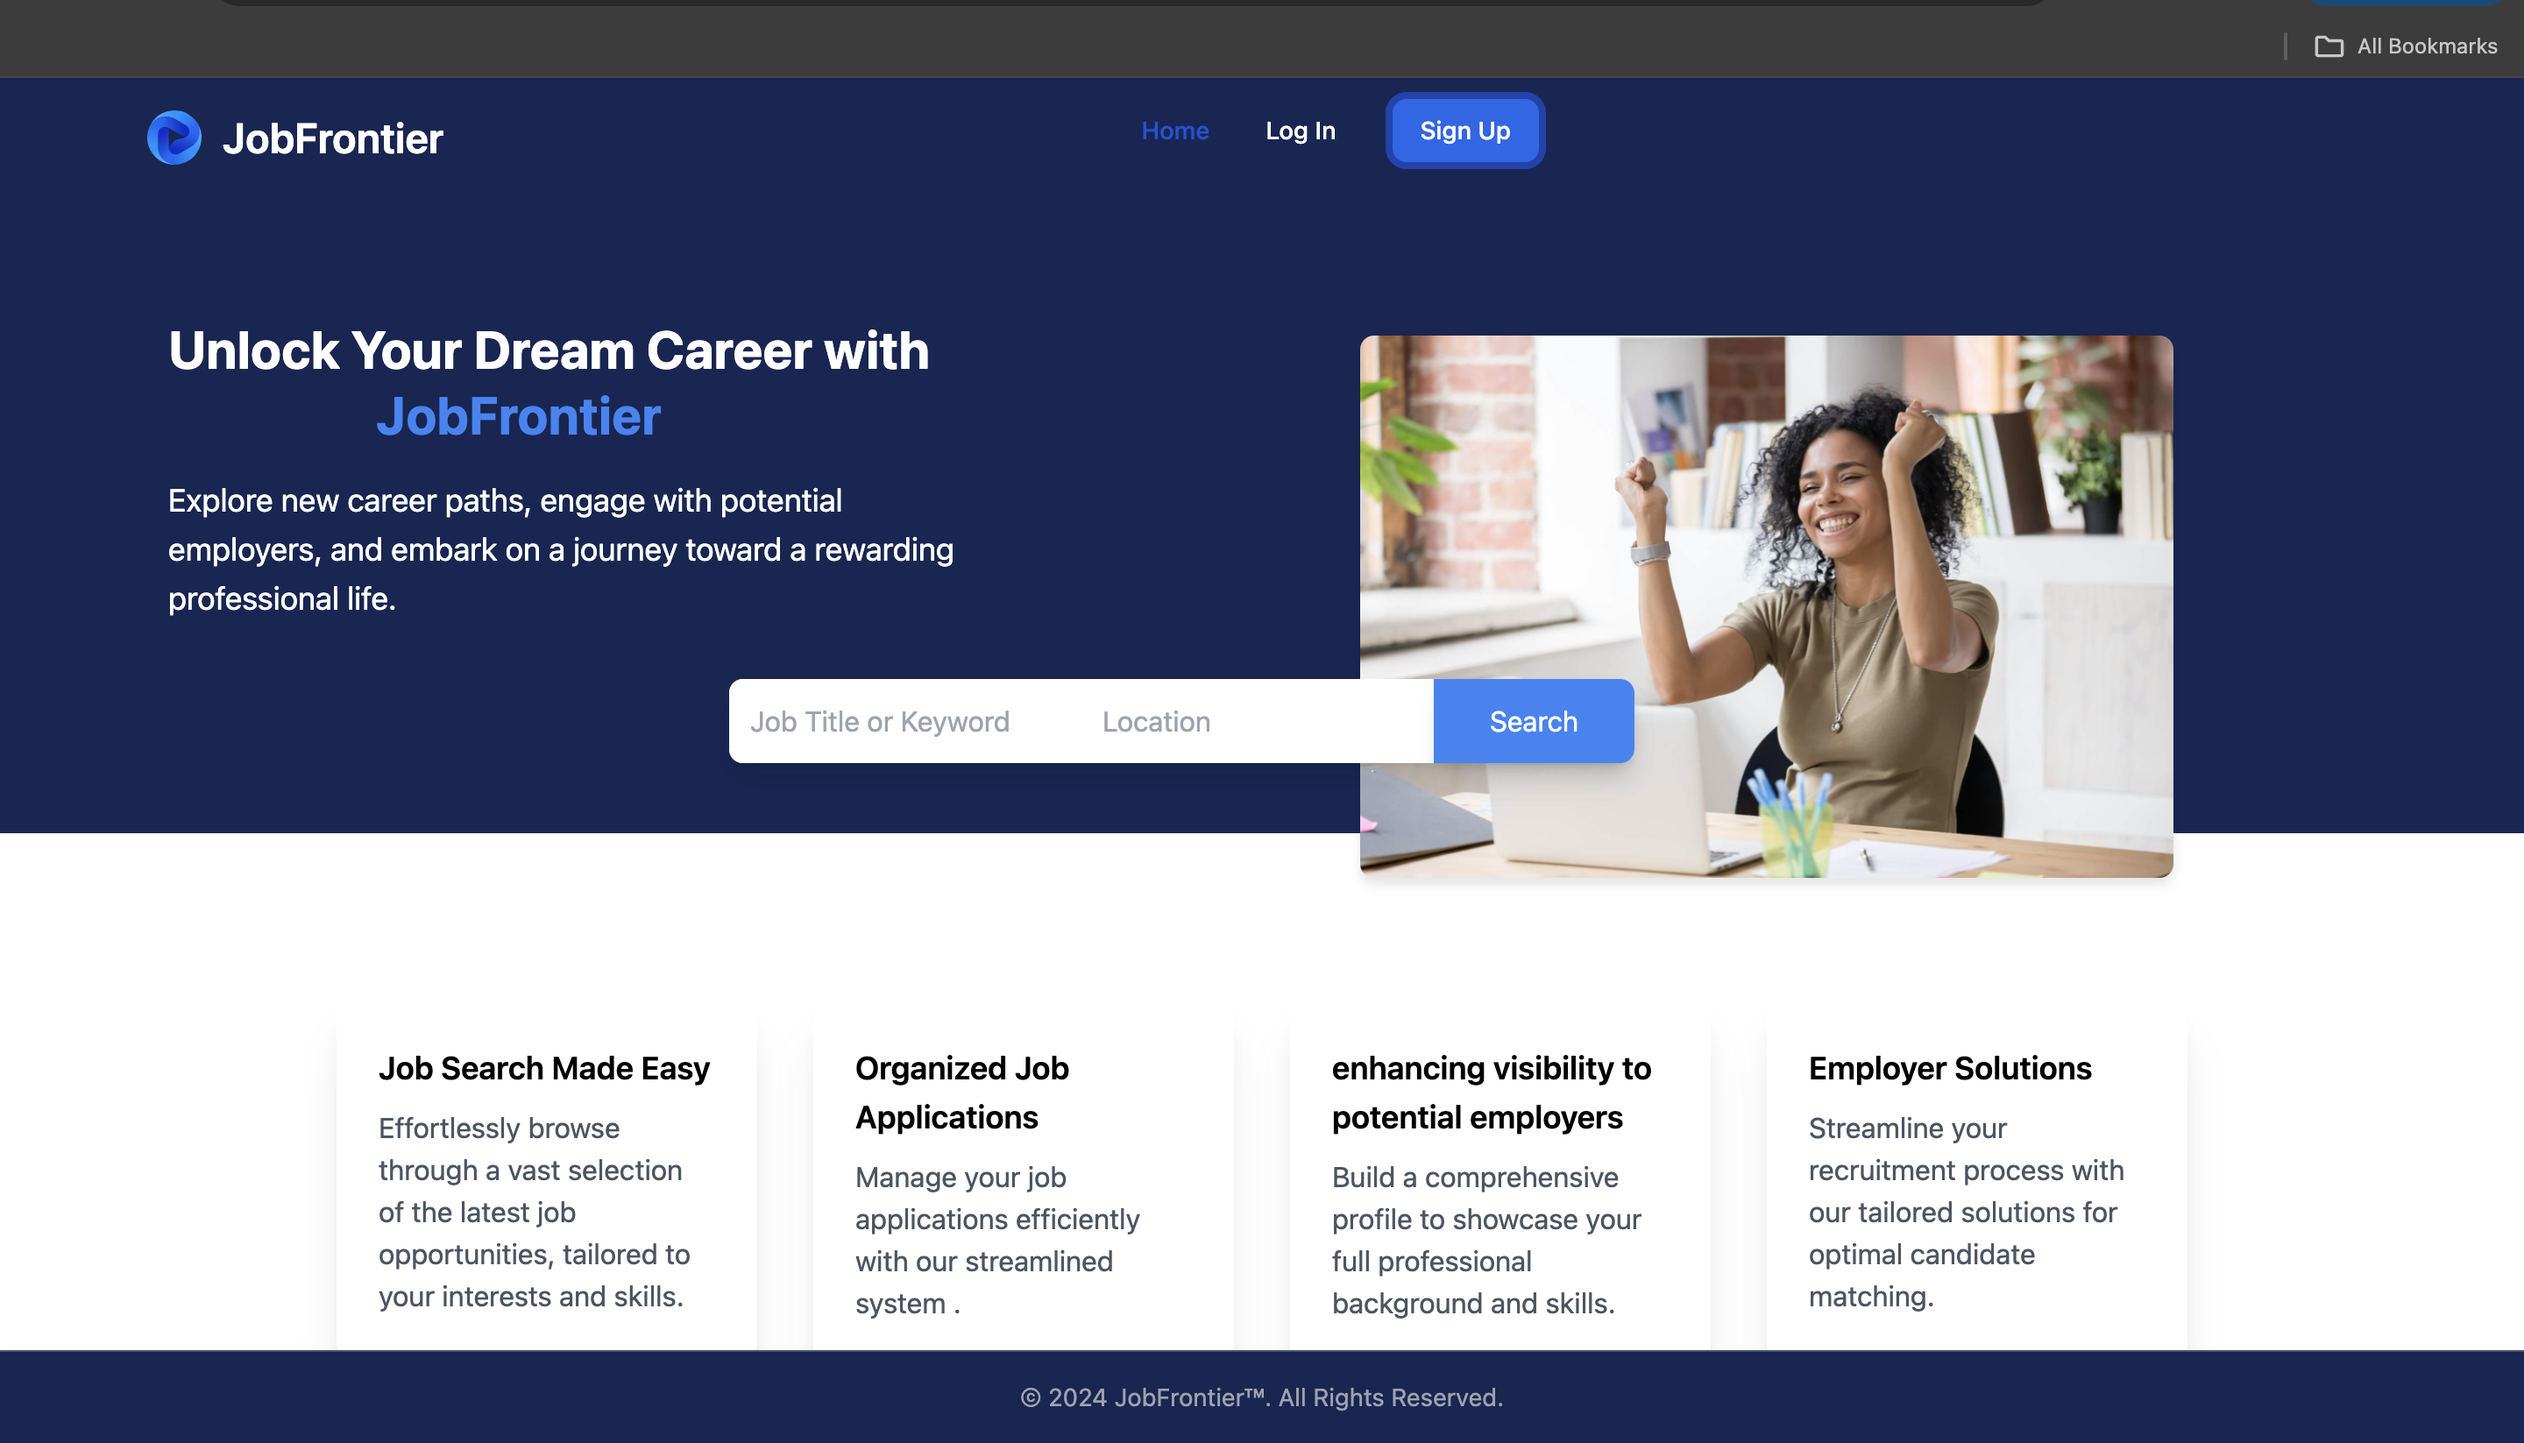
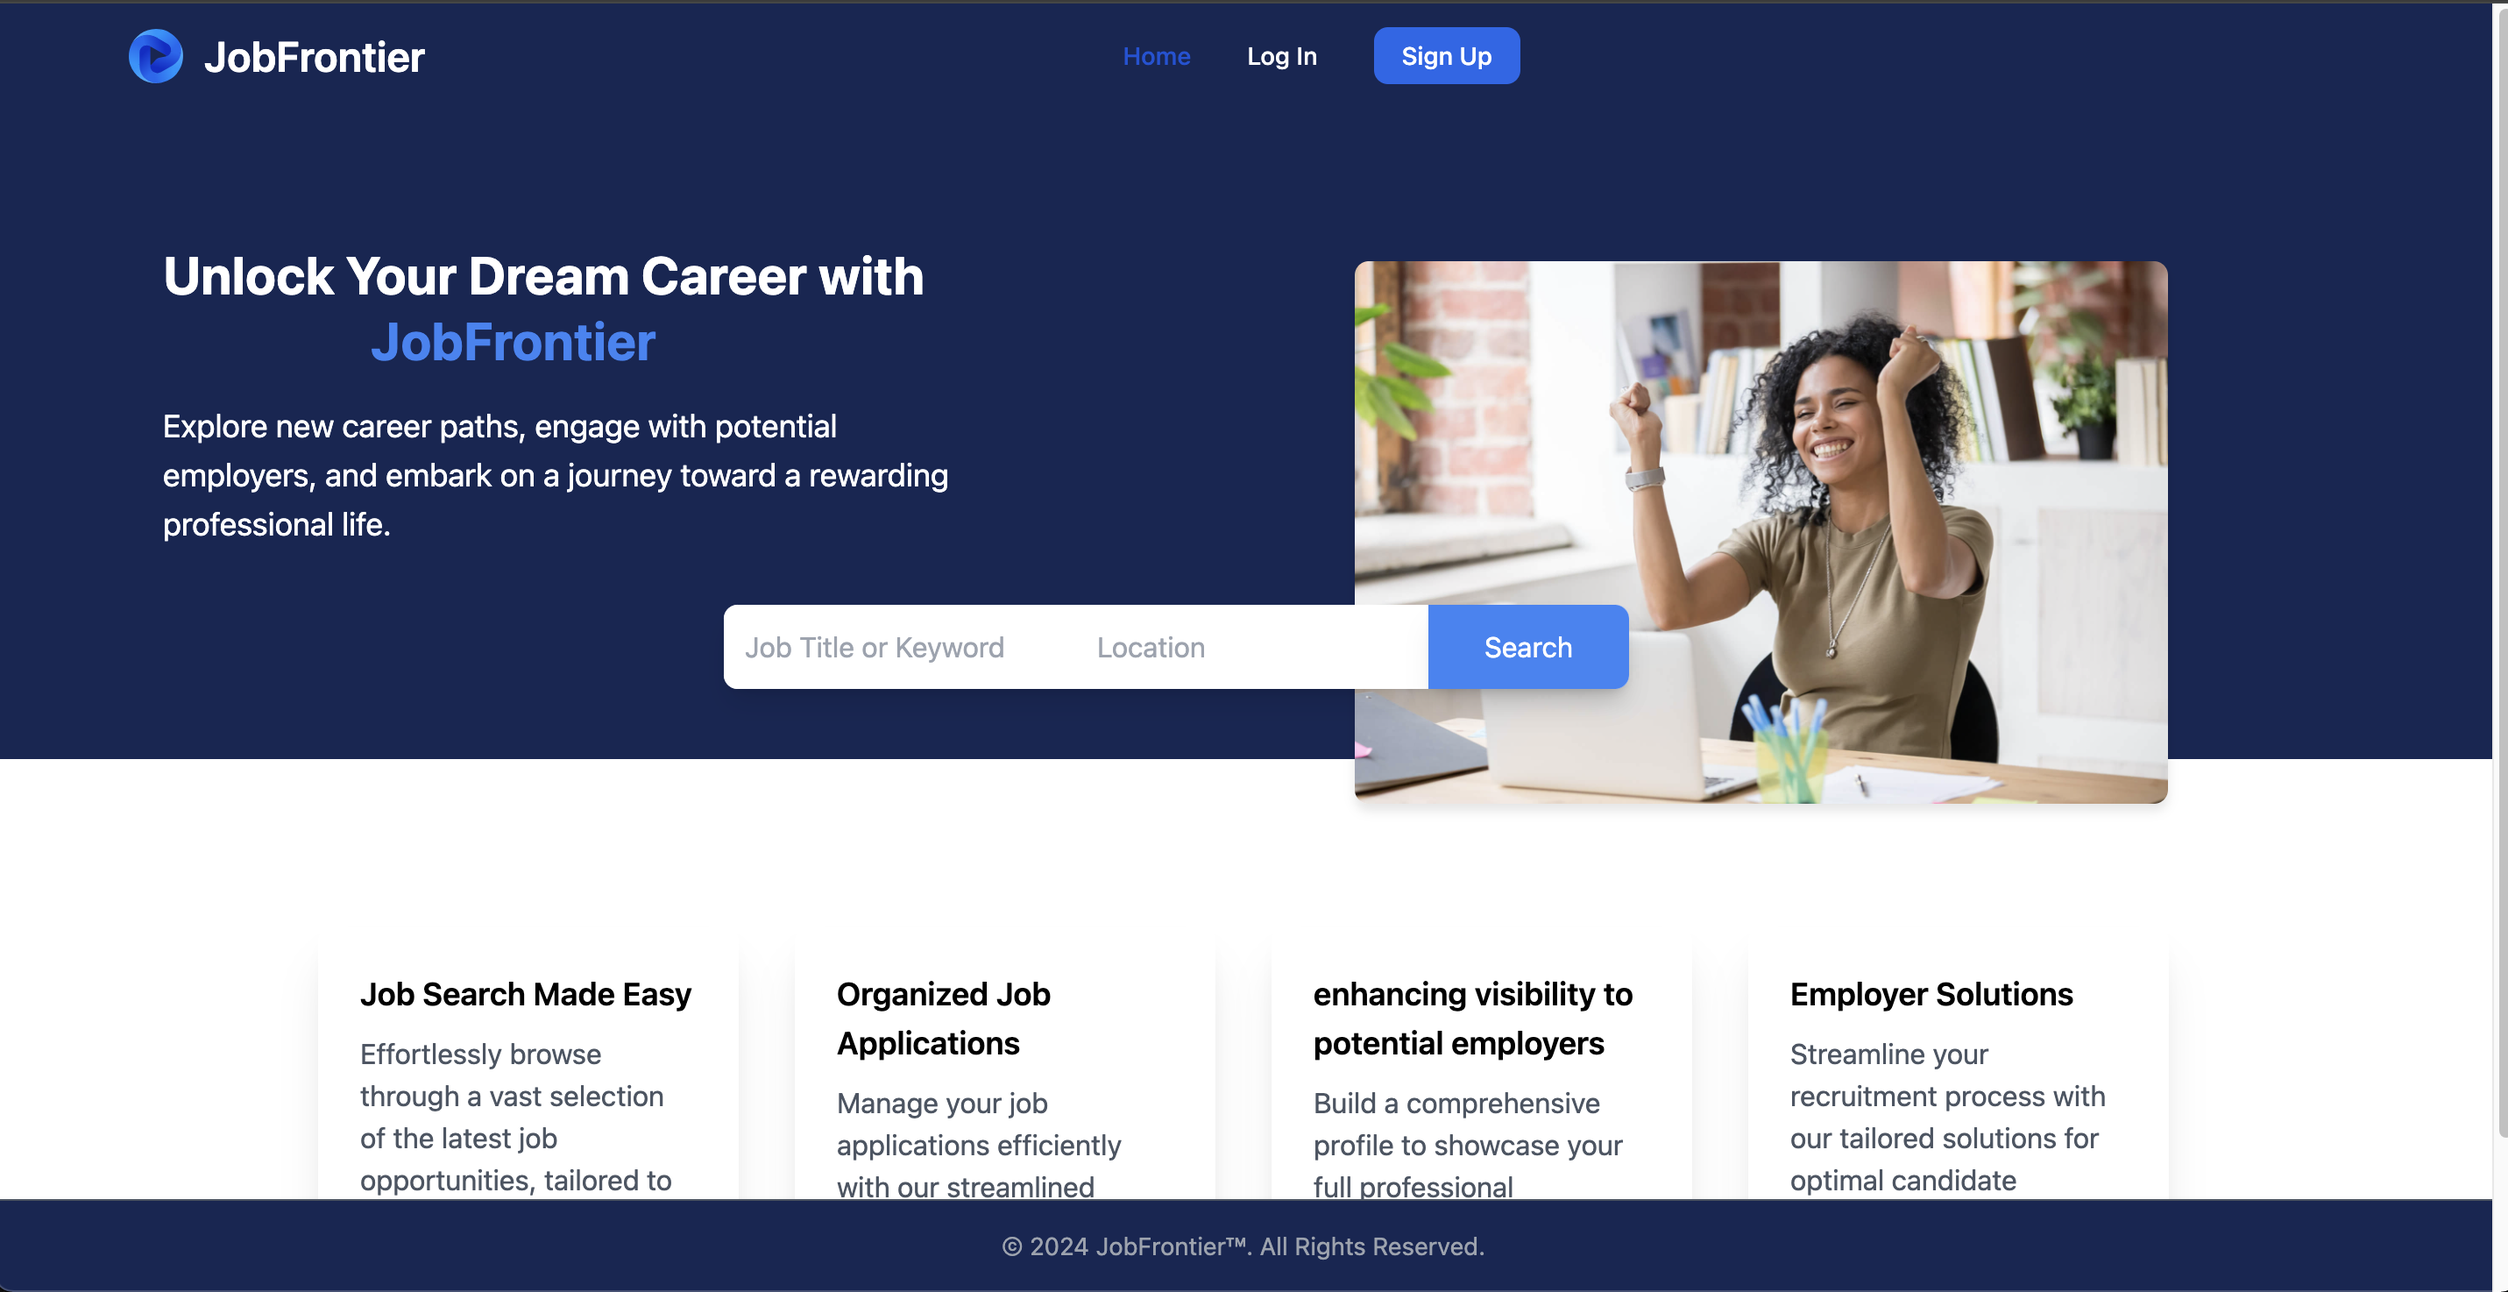
projects, skills, footer updated

diff --git a/components/Footer.tsx b/components/Footer.tsx
@@ -1,0 +1,65 @@
+
+
+import { EnvelopeIcon, LinkIcon } from '@heroicons/react/16/solid';
+import { CodeBracketIcon } from '@heroicons/react/24/solid';
+import React from 'react'
+
+const Footer = () => {
+  return (
+    <div className='pt-[8rem] pb-[4rem] bg-[#02050a]'>
+        <div className='grid border-b-[1px] pb-[6rm] border-gray-400 grid-cols-1 md:grid-cols-2 lg:grid-cols-3 mx-auto gap-[3rem]'>
+            <div className='flex items-center justify-center space-x-6 py-[2rem] ml-[4rem]'>
+                <div className='md:w-[6.5rem] md:h-[6.5rem] w-[5rem] h-[5rem] flex items-center justify-center rounded-full bg-[#55e6a5]'>
+                    <EnvelopeIcon className='md:w-[4rem] md:h-[4rem] w-[3.5rem] h-[3.5rem] text-black' />
+                </div>
+                <div>
+                    <h1 className='text-[25px] mb-[0.2rem] font-bold text-white'>
+                        Email
+                    </h1>
+                    <p className='text-[17px] w-[90%] text-white opacity-60'>
+                        ma.mojtabavi@gmail.com
+                    </p>
+                </div>
+            </div>
+            <div className='flex items-center space-x-6 py-[2rem]'>
+                <div className='md:w-[6.5rem] md:h-[6.5rem] w-[5rem] h-[5rem] flex items-center justify-center rounded-full bg-[#55e6a5]'>
+                    <LinkIcon className='md:w-[4rem] md:h-[4rem] w-[3.5rem] h-[3.5rem] text-black' />
+                </div>
+                <div>
+                    <h1 className='text-[25px] mb-[0.2rem] font-bold text-white'>
+                        Linked in
+                    </h1>
+                    <p className='text-[17px] w-[90%] text-white opacity-60'>
+                        www.linkedin.com/in/mahshidmnaeini
+                    </p>
+                </div>
+            </div>
+            <div className='flex items-center space-x-6 py-[2rem]'>
+                <div className='md:w-[6.5rem] md:h-[6.5rem] w-[5rem] h-[5rem] flex items-center justify-center rounded-full bg-[#55e6a5]'>
+                    <CodeBracketIcon className='md:w-[4rem] md:h-[4rem] w-[3.5rem] h-[3.5rem] text-black' />
+                </div>
+                <div>
+                    <h1 className='text-[25px] mb-[0.2rem] font-bold text-white'>
+                        Github
+                    </h1>
+                    <p className='text-[17px] w-[90%] text-white opacity-60'>
+                        www.github.com/Mahshidmn
+                    </p>
+                </div>
+            </div>
+        </div>
+        <div className='w-[80%] mt-[1rem] mb-[-3rem] mx-auto grid grid-cols-1 md:grid-cols-2 items-center justify-between whitespace-nowrap '>
+                <div className='text-[16px] mb-[2rem] md:mb-0 text-white opacity-50'>
+                    MNWEB 2024 | all Rights Reserved
+                </div>
+                <div className='flex items-center space-x-10 text-white pl-[10rem]'>
+                    <p className='text-[16px] text-white opacity-50'>Terms & Condition</p>
+                    <p className='text-[16px] text-white opacity-50'>Privacy Policy</p>
+                    <p className='text-[16px] text-white opacity-50'>Sitemap</p>
+                </div>
+            </div>
+    </div>
+  );
+};
+
+export default Footer;

diff --git a/components/Projects.tsx b/components/Projects.tsx
@@ -1,0 +1,48 @@
+import React from 'react'
+import Image from 'next/image'
+
+const Projects = () => {
+  return (
+    <div className='bg-[#02050a] pt-[4rem] md:pt-[8rem] pb-[5rem] flex flex-col text-center'>
+        <div>
+            <h1 className='font-bold text-white text-[50px] mb-[4rem] mx-auto'>
+                Pro<span className='text-yellow-400'>Jects</span>
+            </h1>
+            <div className='w-[80%] h-[100%] pt-[2rem] mx-auto grid grid-cols-1 md:grid-cols-2 lg:grid-cols-3 gap-[2rem]'>
+                <div data-aos="fade-up">
+                    <div className='transform cursor-pointer hover:-translate-y-6 transition-all duration-300 relative w-[100%] h-[200px] md:h-[300px]'>
+                        <Image
+                            src="/images/p2.png"
+                            alt="project1"
+                            layout="fill"
+                            
+                        />
+                    </div>
+                </div>
+                <div data-aos="fade-up" data-aos-delay="300">
+                    <div className='transform cursor-pointer hover:-translate-y-6 transition-all duration-300 relative w-[100%] h-[200px] md:h-[300px]'>
+                        <Image
+                            src="/images/p3.png"
+                            alt="project1"
+                            layout="fill"
+                            
+                        />
+                    </div>
+                </div>
+                <div data-aos="fade-up" data-aos-delay="600">
+                    <div className='transform cursor-pointer hover:-translate-y-6 transition-all duration-300 relative w-[100%] h-[200px] md:h-[300px]'>
+                        <Image
+                            src="/images/p4.png"
+                            alt="project1"
+                            layout="fill"
+                            
+                        />
+                    </div>
+                </div>
+            </div>
+        </div>
+    </div>
+  );
+};
+
+export default Projects;

diff --git a/components/Skills.tsx b/components/Skills.tsx
@@ -1,9 +1,53 @@
 import React from 'react'
+import SkillsItem from './SkillsItem';
+import SkillsLanguages from './SkillsLanguages';
 
 const Skills = () => {
   return (
-    <div>
-      
+    <div className='pt-[4rem] md:pt-[8rem] pb-[5rem] bg-[#02050a] flex flex-col text-center'>
+        <div>
+            <h1 className='font-bold text-white text-[50px] mb-[2rem] mx-auto'>
+                Education & <span className='text-yellow-400'>Skills</span>
+            </h1>
+        </div>
+        <div className='w-[80%] mx-auto pt-[4rem] md:pt-[8rem] grid grid-cols-1 md:grid-cols-2 lg:grid-cols-3 gap-[2rem] items-center'>
+            <div>
+                <SkillsItem title="React Developer" year="2023- 2024"/>
+                <SkillsItem title="MERN STACK Developer" year="2023- 2024"/>
+                <SkillsLanguages 
+                    skill1="HTML"
+                    skill2="CSS"
+                    skill3="JavaScript"
+                    level1="[91%]"
+                    level2="[88%]"
+                    level3="[80%]"
+                />
+            </div>
+            <div>
+                <SkillsItem title="Next Js Developer" year="2023- 2024"/>
+                <SkillsItem title="Node Js Developer" year="2023- 2024"/>
+                <SkillsLanguages 
+                    skill1="React Js"
+                    skill2="Next Js"
+                    skill3="TypeScript"
+                    level1="[81%]"
+                    level2="[78%]"
+                    level3="[60%]"
+                    />
+            </div>
+            <div>
+                <SkillsItem title="Python Developer" year="2023- 2024"/>
+                <SkillsItem title="Django Developer" year="2023- 2024"/>
+                <SkillsLanguages 
+                    skill1="Python"
+                    skill2="Django"
+                    skill3="JavaScript"
+                    level1="[81%]"
+                    level2="[78%]"
+                    level3="[60%]"
+                />
+            </div>
+        </div>
     </div>
   )
 }

diff --git a/components/SkillsLanguages.tsx b/components/SkillsLanguages.tsx
@@ -1,11 +1,48 @@
-import React from 'react'
+import React from 'react';
 
-const SkillsLanguages = () => {
-  return (
-    <div>
-      
-    </div>
-  )
+interface Props {
+    skill1: string;
+    skill2: string;
+    skill3: string;
+    level1: string;
+    level2: string;
+    level3: string;
 }
+
+const SkillsLanguages = ({
+    skill1,
+    skill2,
+    skill3,
+    level1,
+    level2,
+    level3,
+
+}: Props) => {
+  return (
+    <div>   
+        <div className='relative mb-[3rem]'>
+            <h1 className='p-5 w-[100%] uppercase bg-gray-800 text-white rounded-sm text-[20px] font-bold'>
+                { skill1 }
+            </h1>
+            <span className={`w-${level1} bottom-0 h-[6px] absolute bg-[#55e6a5]`}>
+            </span>
+        </div>
+        <div className='relative mb-[3rem]'>
+            <h1 className='p-5 w-[100%] uppercase bg-gray-800 text-white rounded-sm text-[20px] font-bold'>
+                { skill2 }
+            </h1>
+            <span className={`w-${level2} bottom-0 h-[6px] absolute bg-[#55e6a5]`}>
+            </span>
+        </div>
+        <div className='relative mb-[3rem]'>
+            <h1 className='p-5 w-[100%] uppercase bg-gray-800  text-white rounded-sm text-[20px] font-bold'>
+                { skill3 }
+            </h1>
+            <span className={`w-${level3} bottom-0 h-[6px] absolute bg-[#55e6a5]`}>
+            </span>
+        </div>
+    </div>
+  );
+};
 
 export default SkillsLanguages;

diff --git a/components/SkillsItem.tsx b/components/SkillsItem.tsx
@@ -1,9 +1,25 @@
-import React from 'react'
+import React from 'react';
 
-const SkillsItem = () => {
+interface Props {
+    title: string;
+    year: string;
+}
+
+const SkillsItem = ({ title, year}: Props) => {
   return (
-    <div>
-      
+    <div className='mb-[4rem] md:mb-[8rem]'>
+      <span className='px-[2rem] text-[#55e6a5] py-[0.9rem] font-bold text-[18px] border-[2px] border-[#55e6a5]'>
+        { year }
+      </span>
+      <h1 className='mt-[2rem] uppercase font-semibold mb-[1rem] text-[20px] sm:text-[25px] md:text-[30px] text-white whitespace-nowrap'>
+        { title }
+      </h1>
+      <p className='text-[#aaaaaa] font-normal text-[17px] opacity-80'>
+        Lorem ipsum dolor sit amet consectetur adipisicing elit. Omnis possimus
+        consequuntur porro est adipisci, quisquam repudiandae, minima cupiditate
+        culpa at praesentium labore ex sed et neque voluptas numquam, ipsum
+        modi?
+      </p>
     </div>
   )
 }

diff --git a/pages/index.tsx b/pages/index.tsx
@@ -4,8 +4,9 @@ import MobileNav from "@/components/MobileNav";
 import Hero from "@/components/Hero";
 import About from "@/components/About";
 import Services from "@/components/Services";
-import Perojects from "@/components/Perojects";
+import Projects from "@/components/Projects";
 import Skills from "@/components/Skills";
+import Footer from "@/components/Footer";
 
 
 const HomePage = () => {
@@ -24,7 +25,8 @@ const HomePage = () => {
             <About />
             <Services />
             <Skills />
-            <Perojects />
+            <Projects />
+            <Footer />
 
           </div>
 
@@ -34,6 +36,6 @@ const HomePage = () => {
   )
 }
 
-export default HomePage
+export default HomePage;
 
 

diff --git a/components/Services.tsx b/components/Services.tsx
@@ -3,8 +3,8 @@ import React from 'react'
 
 const Services = () => {
   return (
-    <div className='bg-[#121121] pt-[4rem] md:pt-[8rem] pb-[5rem] flex flex-col'>
-        <p className='font-bold text-white text-[30px] mb-[5rem] mx-auto'>
+    <div className='bg-[#02050a] pt-[4rem] md:pt-[8rem] pb-[5rem] flex flex-col'>
+        <p className='font-bold text-white text-[50px] mb-[5rem] mx-auto'>
             My <span className='text-yellow-400'>Services</span>
         </p>
         <div>       

diff --git a/components/About.tsx b/components/About.tsx
@@ -4,7 +4,7 @@ import Image from 'next/image';
 
 function About() {
   return (
-    <div className='bg-[#121121] pb-[4rem] pt-[6rem] md:pt[8rem]'>
+    <div className='bg-[#02050a] pb-[4rem] pt-[6rem] md:pt[8rem]'>
       <div className='grid grid-cols-1 md:grid-cols-2 w-[80%] mx-auto gap-[6rem] items-center'>
         <div>
             <h1 className='text-[20px] font-bold uppercase text-[#55e6a5] mb-[1rem]'>
